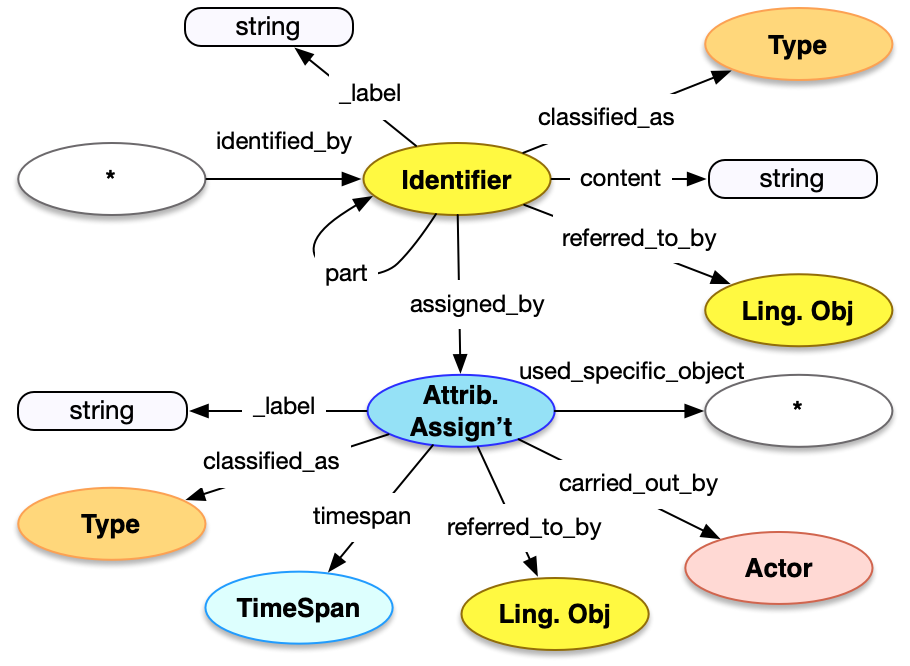
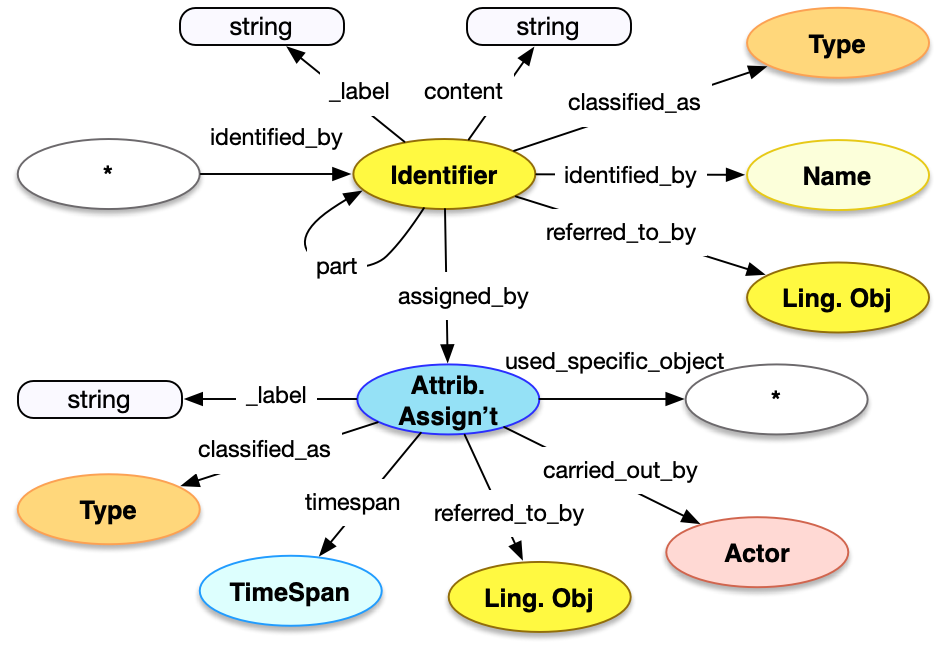
add name to identifier

diff --git a/docs/api/1.0/shared/identifier/index.md b/docs/api/1.0/shared/identifier/index.md
@@ -36,6 +36,7 @@ Identifiers have the following properties.
 | `_complete`       | boolean       | Optional    | Non-Semantic. If there is an `id` property with a URI, and there is more information about the identifier available from the representation at that URI, then `_complete` MUST be present with a value of `false` to inform the consuming application that it might want to retrieve it |
 | `content`         | string        | Required    | The string content of the identifier | <!-- LAF.10 -->
 | `classified_as`   | array         | Recommended | An array of json objects, each of which is a further classification of the identifier and MUST follow the requirements for [Type](../type/) | <!-- LAF.9 -->
+| `identified_by`   | array         | Recommended | An array of json objects, each of which is a name to be displayed for the identifier, and MUST follow the requirements for [Name](../name/) |
 | `referred_to_by`  | array         | Optional    | An array of json objects, each of which is either a [reference](../reference/) to a [textual work](../../endpoint/textual_work/) that refers to the identifier, or an embedded [statement](../statement/) about the identifier. | <!-- LAF.45 -->
 | `assigned_by`     | array         | Optional    | An array of json objects, each of which is an assignment of the identifier, as below |   <!-- -->
 
@@ -87,6 +88,7 @@ An accession number for an object, created and assigned by Example Museum at som
 top = model.HumanMadeObject(ident="auto int-per-segment")
 id = vocab.AccessionNumber(label="Example Museum Accession Number", content="1997-A1752")
 top.identified_by = id
+id.identified_by = vocab.PrimaryName(content="Accession Number")
 id.referred_to_by = vocab.Note(content="This is the original accession number from 1997")
 aa = model.AttributeAssignment(label="Assignment of 1997-A1752")
 id.assigned_by = aa
